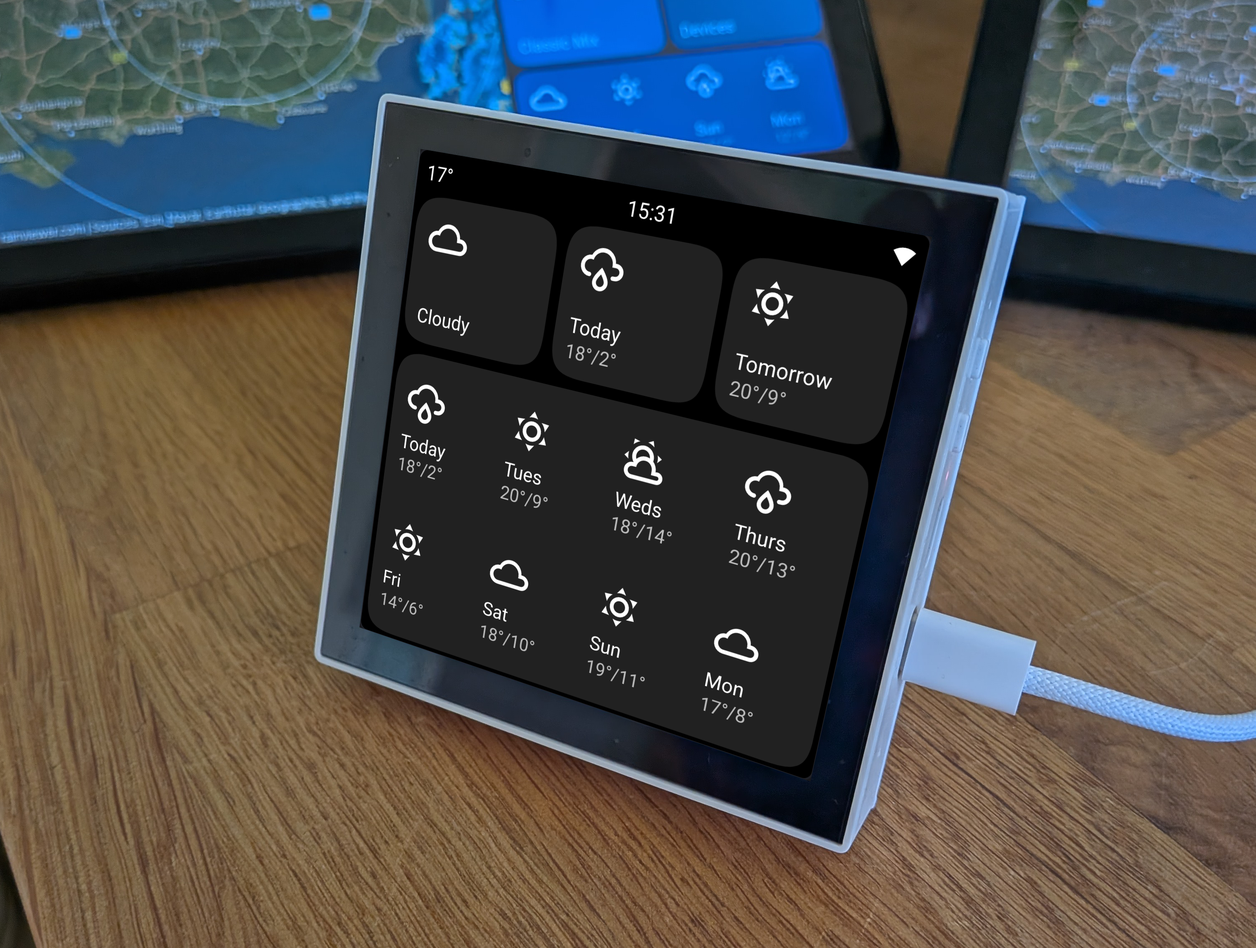
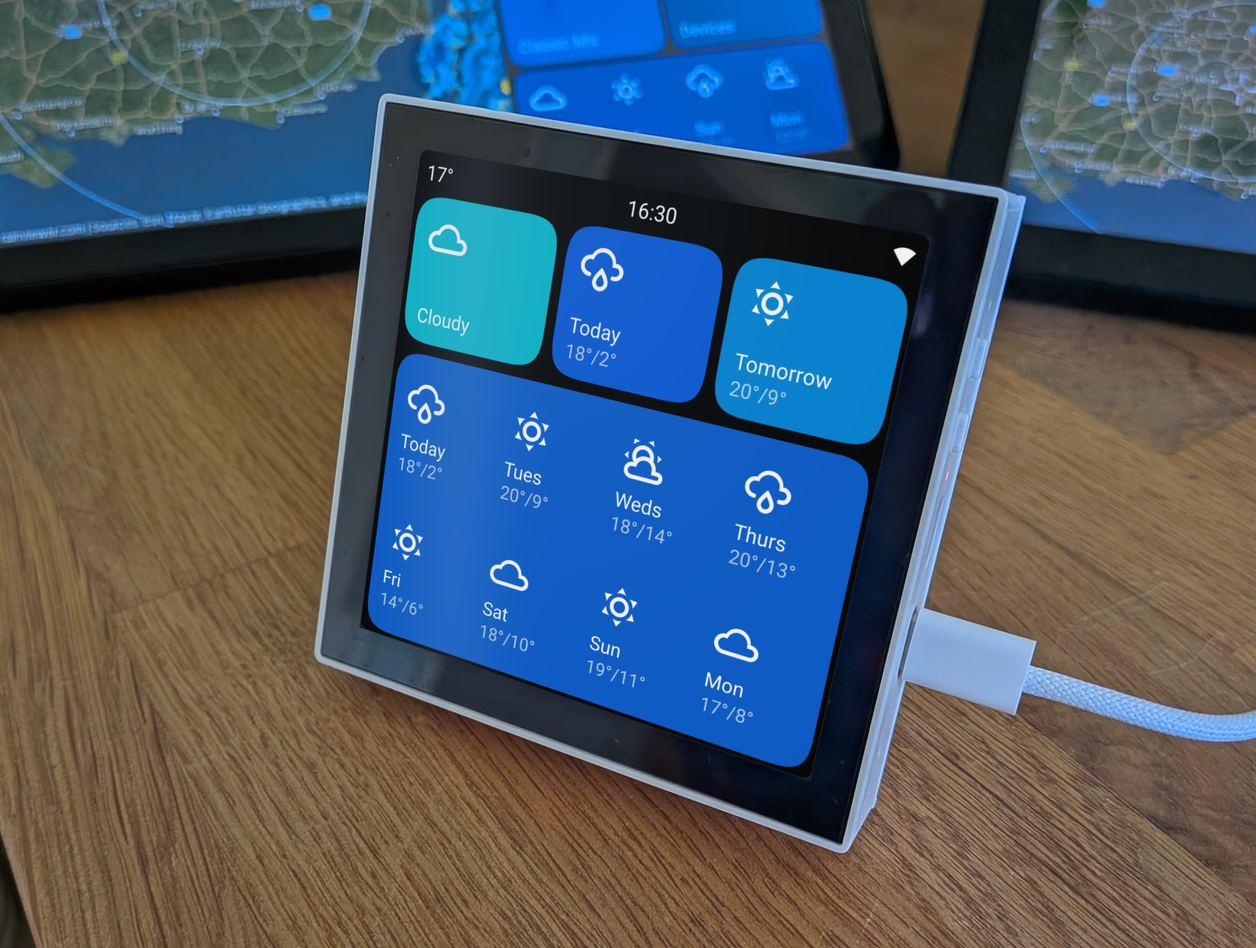
Refresh weather docs with concise guidance and a realistic mockup (#2243)
* Add blue and cyan weather documentation cards

* Add soft glass reflections to the weather mockup

* Make the weather guide concise and task-focused

---------

Changed region(s): [[0.2809, 0.1561, 0.749, 0.8118]]

diff --git a/docs/card-types/weather.md b/docs/card-types/weather.md
@@ -8,48 +8,45 @@ description:
 
 ![Illustrative ESP32-P4-86 device showing current conditions, today, tomorrow and an eight-day weather forecast](/images/weather-device-mockup.webp)
 
-*Photo template with a sample weather screen composited for illustration. The top row shows Current Conditions, Today's Forecast and Tomorrow's Forecast; the larger card shows Daily Forecast.*
+*Illustrative screen with sample data and custom card colours: current conditions, today and tomorrow above an eight-day forecast.*
 
-A weather card shows current Home Assistant conditions or a daily forecast. Forecast cards use a left-aligned layout with the condition icon at the top, and the day and high/low temperatures at the bottom. Temperatures share one line and are rounded to whole degrees, such as **18°/2°**, and use the panel's **Temperature Unit** setting. Forecast cards have no separate label or low-temperature row.
+Show current conditions or daily forecasts from a Home Assistant weather entity. Tap a forecast card for wind and rain details.
 
 ## Setting Up a Weather Card
 
 1. Select a card and change its type to **Weather**.
 2. Enter a **Weather Entity**, for example `weather.forecast_home`.
 3. Choose **Type**:
-   - **Current Conditions** shows the live weather condition icon and label.
-   - **Today's Forecast** shows today's condition and high/low temperatures.
-   - **Tomorrow's Forecast** shows tomorrow's condition and high/low temperatures.
-   - **Daily Forecast** shows up to eight upcoming days, reflowing into a row or grid as the card changes size.
-
-All forecast modes are available on supported panels, including the 4-inch Guition 4848S040 (ESP32-S3). The editor shows sample data; the panel loads the actual forecast from Home Assistant.
-
-Existing **Temperatures Today** and **Temperatures Tomorrow** cards automatically use the new forecast layout. Their saved day selection is retained. The old custom label and large temperature number controls no longer apply. Older configurations containing a separate **Weather Forecast** card load as **Tomorrow's Forecast**.
+   - **Current Conditions** — the live condition icon and label.
+   - **Today's Forecast** — today's icon and high/low temperatures.
+   - **Tomorrow's Forecast** — tomorrow's icon and high/low temperatures.
+   - **Daily Forecast** — up to eight days in a row or grid.
+4. Resize the card in the preview, optionally choose **Custom Colours**, then press **Save**.
 
 ::: tip Home Assistant actions permission
-Forecasts need **Allow the device to perform Home Assistant actions** enabled so the panel can request forecast data. See [Home Assistant actions](/getting-started/home-assistant-actions).
+Enable **Allow the device to perform Home Assistant actions** so the panel can request forecasts. See [Enable Actions](/getting-started/home-assistant-actions).
 :::
 
 ### Configuration Examples
 
-These screenshots show the actual admin webserver editor with the example entity `weather.forecast_home`. Use your own Home Assistant weather entity, select a **Type**, then press **Save**. The editor preview uses sample weather; the panel shows your provider's data.
+The admin webserver examples below use `weather.forecast_home`; replace it with your own entity. The preview uses sample data. Your panel loads real conditions and forecasts from Home Assistant.
 
 <div class="weather-configuration-grid">
   <figure>
     <img src="/images/weather-admin-current.png" alt="Weather editor with Type set to Current Conditions and Weather Entity set to weather.forecast_home" loading="lazy" width="844" height="708">
-    <figcaption><strong>Current Conditions</strong> — the live condition icon and label, such as Cloudy.</figcaption>
+    <figcaption><strong>Current Conditions</strong></figcaption>
   </figure>
   <figure>
     <img src="/images/weather-admin-today.png" alt="Weather editor with Type set to Today's Forecast and Weather Entity set to weather.forecast_home" loading="lazy" width="844" height="708">
-    <figcaption><strong>Today's Forecast</strong> — today's icon and high/low temperatures.</figcaption>
+    <figcaption><strong>Today's Forecast</strong></figcaption>
   </figure>
   <figure>
     <img src="/images/weather-admin-tomorrow.png" alt="Weather editor with Type set to Tomorrow's Forecast and Weather Entity set to weather.forecast_home" loading="lazy" width="844" height="708">
-    <figcaption><strong>Tomorrow's Forecast</strong> — tomorrow's icon and high/low temperatures.</figcaption>
+    <figcaption><strong>Tomorrow's Forecast</strong></figcaption>
   </figure>
   <figure>
     <img src="/images/weather-admin-daily.png" alt="Weather editor with Type set to Daily Forecast and Weather Entity set to weather.forecast_home" loading="lazy" width="844" height="708">
-    <figcaption><strong>Daily Forecast</strong> — up to eight days in a row or grid. Resize the card in the preview to give the forecast more space.</figcaption>
+    <figcaption><strong>Daily Forecast</strong></figcaption>
   </figure>
 </div>
 
@@ -70,62 +67,20 @@ These screenshots show the actual admin webserver editor with the example entity
 
 ## How It Works on the Panel
 
-**Current Conditions** watches the weather entity's current state. The icon uses the normalized weather condition, while the label keeps provider-specific text, such as **Light Rain**. Unknown or unavailable states show a fallback icon and readable label.
+Forecasts show whole-degree high/low temperatures, such as **18°/2°**, using the panel's **Temperature Unit** setting. Today and Tomorrow always show one day. Daily Forecast adapts to the card's size: a row on wide cards, a grid on larger cards, or a column on tall narrow cards. Enlarge the card to show more days; the count also depends on your provider's data and font sizes.
 
-Forecast modes request the daily forecast from Home Assistant. **Today's Forecast** and **Tomorrow's Forecast** each show exactly one day, even on a wide card. They select the requested local date; if the provider omits that date, the card shows **Forecast unavailable**. **Daily Forecast** shows **Today** or short weekday names with whole-degree high/low temperatures. Its layout uses both card width and height: single-height cards use a horizontal row, larger cards use a grid, and tall narrow cards use one column of forecasts, with each icon above its day and temperatures just like the square grid. Consecutive upcoming days are shown, with the number limited by the space available. Fonts stay readable rather than shrinking to fit more days. The grid balances its rows and columns when a provider returns fewer days. Short cards use compact rows when needed to leave room for **Last forecast**.
+Forecasts refresh hourly and after reconnecting. **Loading** appears while fetching data. If a refresh fails, the previous forecast remains with **Last forecast**; if no data is available for the requested date, the card shows **Forecast unavailable**. Your Home Assistant provider must support daily forecasts.
 
-Grid layouts leave a visible gap between each icon and its day, with extra space between complete forecast rows. On the S3 this icon-to-day gap is eight display pixels when space allows.
-
-On the 480×480 S3 with the default font sizes and eight available days:
-
-| Card size | Layout | Days shown |
-|---|---|---|
-| 1w × 1h | One day | 1 |
-| 2w × 1h | Horizontal row | 2 |
-| 3w × 1h | Horizontal row | 4 |
-| 1w × 2h | One column of stacked forecasts | 2 |
-| 2w × 2h | 2×2 grid | 4 |
-| 3w × 2h | 4×2 grid | 8 |
-| 1w × 3h | One column of stacked forecasts | 3 |
-| 2w × 3h | 2×3 grid | 6 |
-| 3w × 3h | 3×3 grid, one space unused | 8 |
-
-The exact count depends on the panel's fonts, available forecast days, translated labels and stale-data status. The editor preview uses the same layout rules and updates when the card is resized.
-
-Forecasts refresh hourly and after reconnecting. Providers must supply a daily forecast and may return fewer than eight days.
-
-While loading, forecast cards show a single cloud-and-clock icon and **Loading**. The day layout appears when data arrives. A failed refresh keeps the last available forecast and marks it **Last forecast**; if no forecast is available, the card shows **Forecast unavailable**.
-
-Weather cards use the fixed **tertiary** background colour, like Sensor, Date, Clock, and World Clock cards.
-
-All forecast modes share one compact eight-day forecast per weather entity. The panel supports up to eight forecast entities and sixteen forecast cards across the home screen and subpages. It creates widgets only for visible days, and the modal shows up to six day panels. Configurations beyond these limits show an unavailable forecast.
+All forecast modes work on supported panels, including the 4-inch ESP32-S3. The panel supports up to eight weather entities and sixteen forecast cards across the home screen and subpages.
 
 ## Forecast Details
 
-Tap any forecast card to open a **3×2 grid** of up to six forecast days. Each day panel shows its day and weather icon in white, with whole-degree high/low temperatures, wind speed and rain data in grey. Lines use generous, equal spacing that adapts to the available height, with wind above the rain chance and rainfall row, such as **80% / 2.4 mm**. Rainfall and wind keep the provider's units. Missing values are omitted and zero values remain visible. Short displays abbreviate labels where needed to keep values and units readable; short landscape panels place the icon beside the day and temperatures.
-
-Day panels have no selection highlight or tap action, and there is no separate rain/humidity footer. The grey **Last forecast** notice appears below the grid when data is stale. The layout fits supported displays in both orientations without scrolling or paging controls and has no separate Weather heading.
-
-The modal allocates only available day panels, up to six, with one reusable two-line wind/rain label per day. It shares the card's bounded forecast snapshot and uses existing fonts.
+Tap any forecast card to open up to six days in a **3×2 grid**, showing conditions, high/low temperatures, wind speed, rain chance and rainfall where available. Wind and rainfall retain the provider's units. **Last forecast** marks stale data. Current Conditions cards do not open forecast details.
 
 ## Supported Conditions
 
-| Home Assistant state | What the card shows |
-|---|---|
-| `sunny` | Sunny |
-| `clear-night` | Clear night |
-| `partlycloudy` | Partly cloudy |
-| `cloudy` | Cloudy |
-| `fog` | Fog |
-| `hail` | Hail |
-| `lightning` | Lightning |
-| `lightning-rainy` | Lightning and rain |
-| `pouring` | Pouring |
-| `rainy` | Rainy |
-| `snowy` | Snowy |
-| `snowy-rainy` | Snowy and rain |
-| `windy` | Windy |
-| `windy-variant` | Windy and cloudy |
-| `exceptional` | Exceptional |
-| `unknown` | Unknown |
-| `unavailable` | Unavailable |
+Standard Home Assistant weather states use matching icons. Current Conditions keeps provider-specific labels, such as **Light Rain**; unknown or unavailable states show a fallback icon and readable label.
+
+::: details Older configurations
+**Temperatures Today** and **Temperatures Tomorrow** cards retain their day selection and use the current forecast layout. A separate **Weather Forecast** card loads as **Tomorrow's Forecast**. The old custom label and large temperature number controls no longer apply.
+:::

diff --git a/assets/documentation/weather-image-notes.md b/assets/documentation/weather-image-notes.md
@@ -20,13 +20,26 @@ The original photo template is kept outside the repository. Supply your local co
 node assets/documentation/compose-screen.cjs \
   /path/to/Template.png \
   assets/documentation/weather-screen-reference.png \
-  docs/public/images/weather-device-mockup.webp
+  docs/public/images/weather-device-mockup.webp --glass
 ```
 
 The helper uses the template's transparent screen mask and detects its corners: top left `(1008, 357)`, top right `(2235, 567)`, bottom right `(1943, 1874)`, bottom left `(862, 1505)`. It removes the preview's four-pixel simulated enclosure outline, fits all screen content with one perspective transform, and blends the cutout's antialiased edge. It checks corner alignment and verifies all 5,366,835 pixels outside the cutout remain unchanged after encoding. Keep the source template unchanged when using it for other feature examples.
+
+The optional `--glass` finish softens the inserted screen with a 0.8-pixel blur before projection, slightly reduces its brightness, and adds a diffuse cool reflection with a broad, soft window highlight. The reflection follows the same screen plane and stays inside the cutout. The original editor screenshot stays unmodified. Omit the flag to produce a crisp composite without the glass finish.
 
 ## Capture the editor screenshots
 
 The admin screenshots were captured with Playwright using the existing browser smoke harness's local routes, simulated EventSource, and native configuration loader. They show the actual editor with a simulated device, not a live panel.
 
 The preview uses `esp32-p4-86`, four weather cards with modes `""`, `today`, `tomorrow`, `daily`, and grid order `1,2,3,4h`. Each card uses `weather.forecast_home`. Open the daily card's editor and select each Type to capture the four settings dialogs. No live panel or Home Assistant credentials are needed.
+
+The device mockup's screen reference uses the editor's supported **Custom Colours** background setting (`card_off_color`) for each card:
+
+| Card | Background |
+|---|---|
+| Current Conditions | `#00B8CF` |
+| Today's Forecast | `#0457D9` |
+| Tomorrow's Forecast | `#0083D6` |
+| Daily Forecast | `#075ACB` |
+
+These colours are saved card configuration, not an image recolour or a change to firmware defaults. The configuration-dialog screenshots retain the original example configuration.
